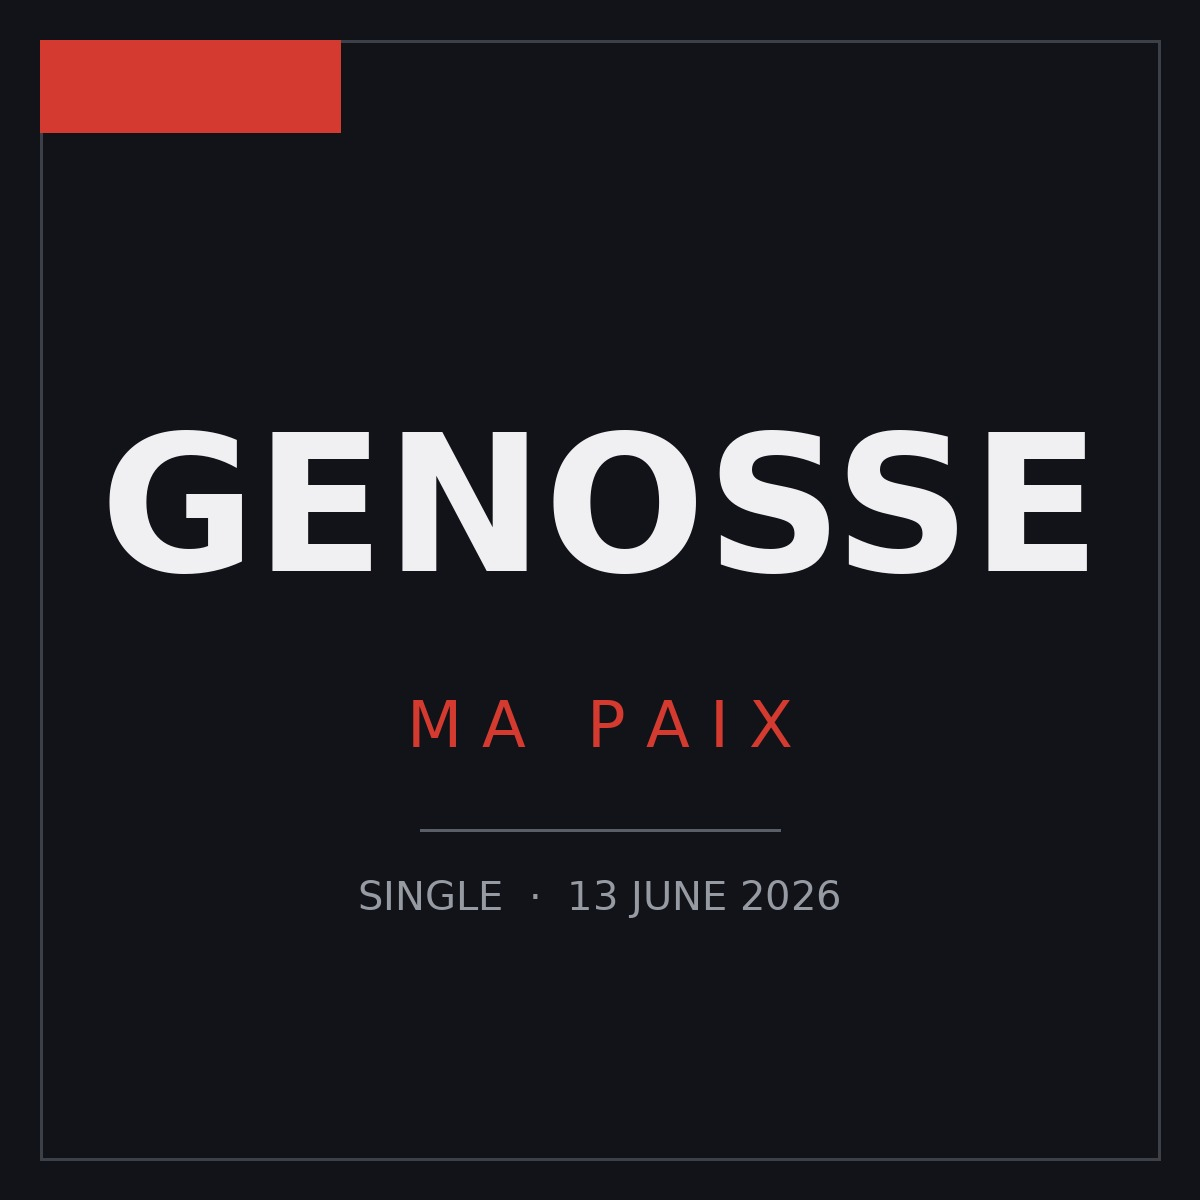
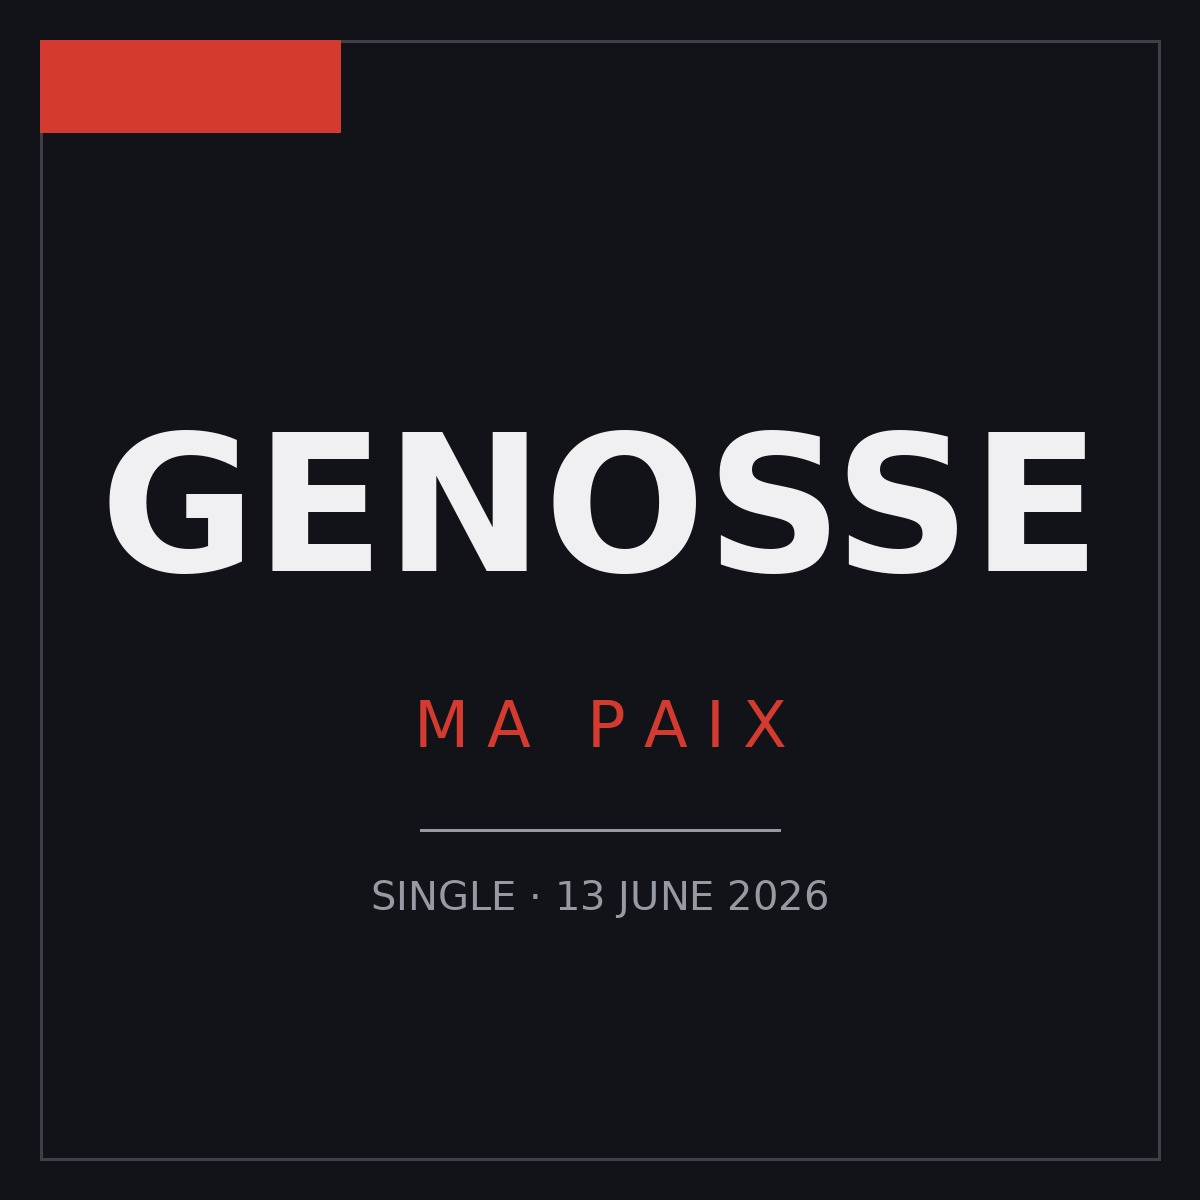
Content: Add missing song cover

diff --git a/site/tools/make_cover.py b/site/tools/make_cover.py
@@ -1,0 +1,122 @@
+#!/usr/bin/env python3
+"""Generate a typographic cover image (square JPEG) for a music release.
+
+Style: near-black background, thin frame, accent block top-left, big title,
+letter-spaced artist in the accent color, divider line, meta line (e.g.
+release date). Output is meant to be dropped into a Hugo page bundle as
+``featured.jpg`` (HugoBlox picks that name up automatically for cards/hero).
+
+Example — regenerate the "Genosse" single cover:
+
+    python3 tools/make_cover.py \
+        --title GENOSSE --artist "Ma Paix" --meta "SINGLE · 13 JUNE 2026" \
+        --out content/blog/2026-11-17-genosse-single/featured.jpg
+
+Requires: Pillow (``pip install pillow``) and the DejaVu fonts
+(``fonts-dejavu`` on Debian/Ubuntu).
+"""
+
+import argparse
+import os
+import sys
+
+from PIL import Image, ImageDraw, ImageFont
+
+DEFAULT_FONT_DIR = "/usr/share/fonts/TTF"
+
+
+def hex_color(value: str) -> tuple:
+    value = value.lstrip("#")
+    if len(value) != 6:
+        raise argparse.ArgumentTypeError(f"expected #rrggbb, got {value!r}")
+    return tuple(int(value[i : i + 2], 16) for i in (0, 2, 4))
+
+
+def load_font(font_dir: str, name: str, size: int) -> ImageFont.FreeTypeFont:
+    path = os.path.join(font_dir, name)
+    if not os.path.exists(path):
+        sys.exit(f"font not found: {path} (set --font-dir)")
+    return ImageFont.truetype(path, size)
+
+
+def text_size(draw: ImageDraw.ImageDraw, text: str, font) -> tuple:
+    bbox = draw.textbbox((0, 0), text, font=font)
+    return bbox[2] - bbox[0], bbox[3] - bbox[1], bbox[0], bbox[1]
+
+
+def draw_centered(draw, cx, y, text, font, fill):
+    w, h, ox, oy = text_size(draw, text, font)
+    draw.text((cx - w / 2 - ox, y - oy), text, font=font, fill=fill)
+
+
+def draw_tracked(draw, cx, y, text, font, fill, tracking):
+    """Draw text centered at cx, with extra letter spacing (tracking px)."""
+    chars = list(text)
+    widths = [text_size(draw, c, font)[0] for c in chars]
+    total = sum(widths) + tracking * (len(chars) - 1)
+    x = cx - total / 2
+    for c, w in zip(chars, widths):
+        _, _, ox, oy = text_size(draw, c, font)
+        draw.text((x - ox, y - oy), c, font=font, fill=fill)
+        x += w + tracking
+
+
+def make_cover(title, artist, meta, out, size=1200, bg="#111318",
+               accent="#d43a2f", fg="#f0f0f2", muted="#969aa2",
+               frame="#3c4048", quality=92, font_dir=DEFAULT_FONT_DIR):
+    s = size
+    img = Image.new("RGB", (s, s), bg)
+    d = ImageDraw.Draw(img)
+
+    m = round(s * 40 / 1200)                       # outer margin
+    d.rectangle([m, m, s - m, s - m], outline=frame, width=max(2, round(s * 3 / 1200)))
+
+    # accent block, top-left
+    d.rectangle([m, m, m + round(s * 300 / 1200), m + round(s * 92 / 1200)], fill=accent)
+
+    f_title = load_font(font_dir, "DejaVuSans-Bold.ttf", round(s * 190 / 1200))
+    draw_centered(d, s / 2, s * 430 / 1200, title, f_title, fg)
+
+    if artist:
+        f_artist = load_font(font_dir, "DejaVuSans.ttf", round(s * 64 / 1200))
+        draw_tracked(d, s / 2, s * 700 / 1200, artist.upper(),
+                     f_artist, accent, tracking=round(s * 18 / 1200))
+
+    # divider
+    d.line([s / 2 - s * 0.15, s * 830 / 1200, s / 2 + s * 0.15, s * 830 / 1200],
+           fill=muted, width=max(2, round(s * 3 / 1200)))
+
+    if meta:
+        f_meta = load_font(font_dir, "DejaVuSans.ttf", round(s * 40 / 1200))
+        draw_centered(d, s / 2, s * 880 / 1200, meta.upper(), f_meta, muted)
+
+    os.makedirs(os.path.dirname(os.path.abspath(out)), exist_ok=True)
+    img.save(out, quality=quality)
+    return out
+
+
+def main():
+    ap = argparse.ArgumentParser(description=__doc__,
+                                 formatter_class=argparse.RawDescriptionHelpFormatter)
+    ap.add_argument("--title", required=True, help="release title, e.g. GENOSSE")
+    ap.add_argument("--artist", default="", help="artist name, e.g. 'Ma Paix'")
+    ap.add_argument("--meta", default="", help="meta line, e.g. 'SINGLE · 13 JUNE 2026'")
+    ap.add_argument("--out", required=True, help="output JPEG path (use featured.jpg in a page bundle)")
+    ap.add_argument("--size", type=int, default=1200, help="edge length in px (default 1200)")
+    ap.add_argument("--bg", type=hex_color, default=hex_color("#111318"), help="background #rrggbb")
+    ap.add_argument("--accent", type=hex_color, default=hex_color("#d43a2f"), help="accent #rrggbb")
+    ap.add_argument("--fg", type=hex_color, default=hex_color("#f0f0f2"), help="title color #rrggbb")
+    ap.add_argument("--muted", type=hex_color, default=hex_color("#969aa2"), help="meta/divider color #rrggbb")
+    ap.add_argument("--frame", type=hex_color, default=hex_color("#3c4048"), help="frame color #rrggbb")
+    ap.add_argument("--quality", type=int, default=92, help="JPEG quality (default 92)")
+    ap.add_argument("--font-dir", default=DEFAULT_FONT_DIR)
+    args = ap.parse_args()
+
+    out = make_cover(args.title, args.artist, args.meta, args.out, size=args.size,
+                     bg=args.bg, accent=args.accent, fg=args.fg, muted=args.muted,
+                     frame=args.frame, quality=args.quality, font_dir=args.font_dir)
+    print(f"cover written: {out}")
+
+
+if __name__ == "__main__":
+    main()
